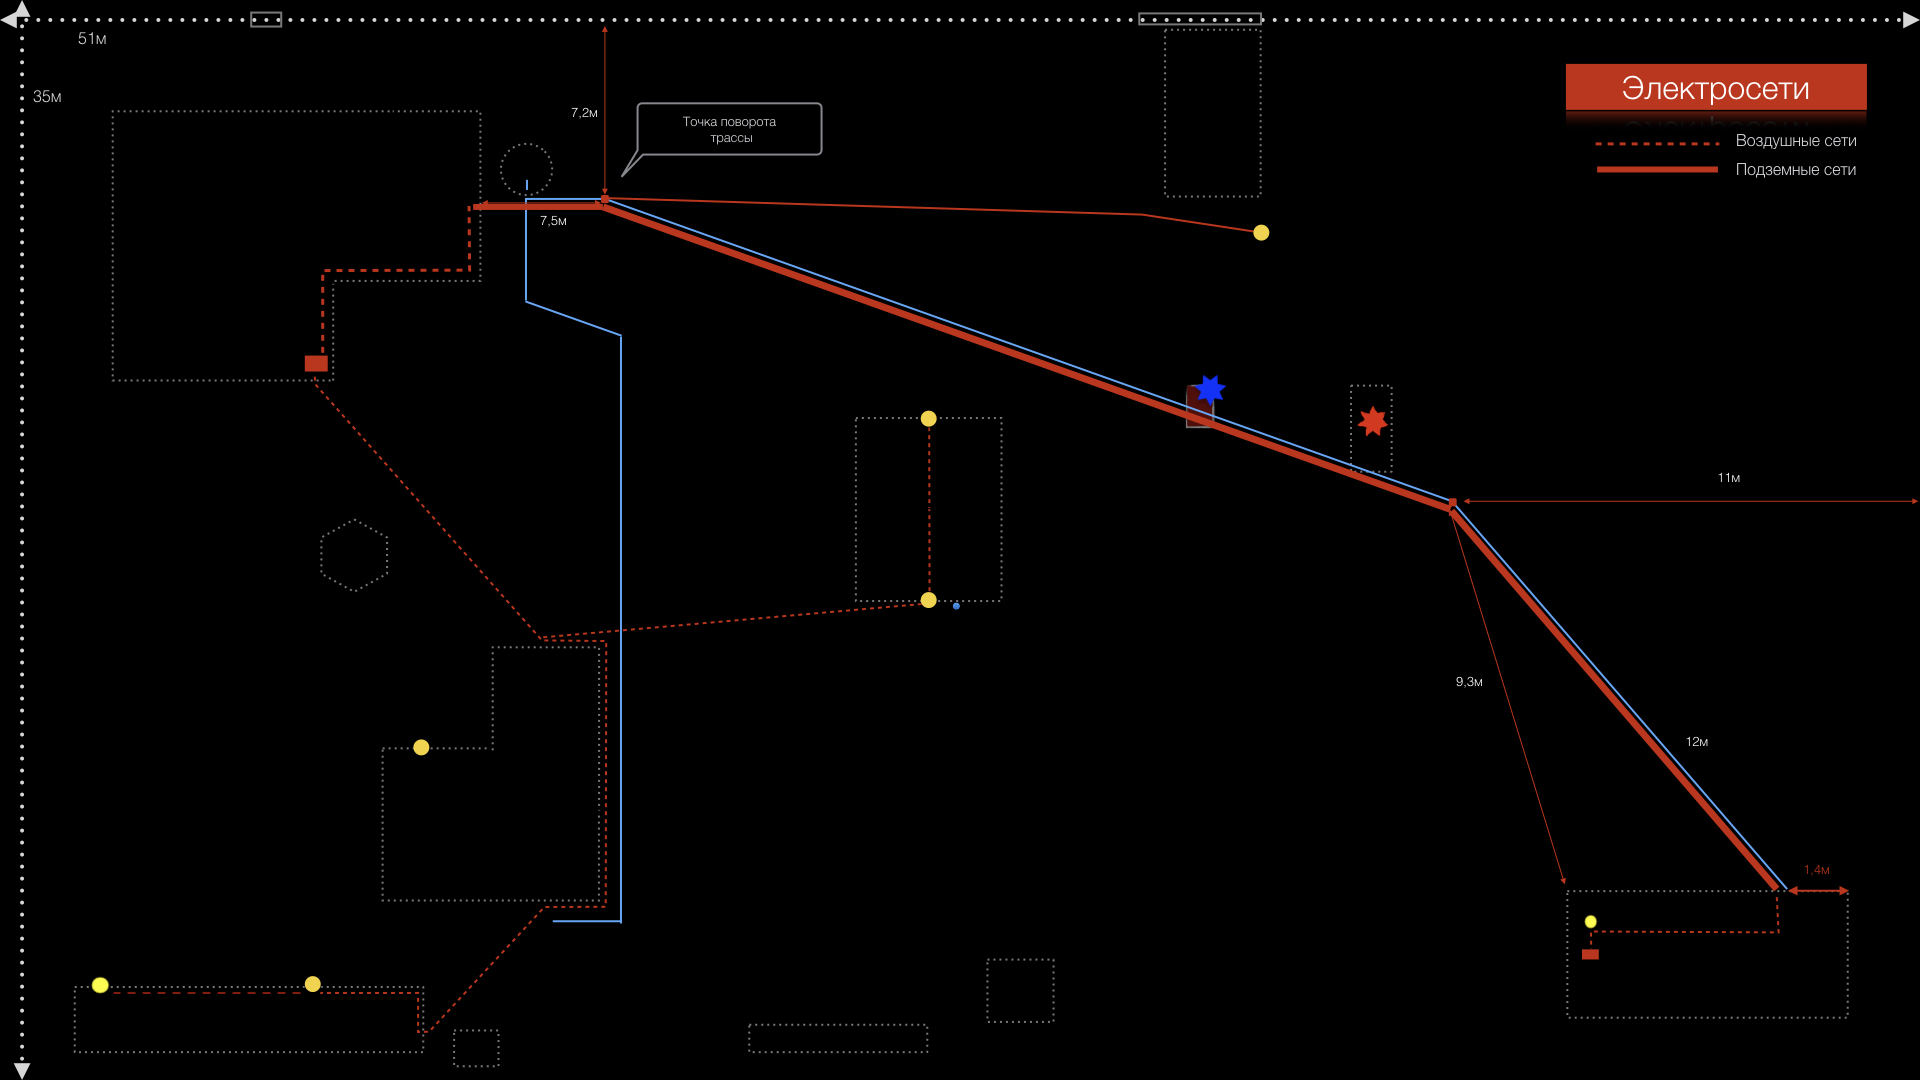
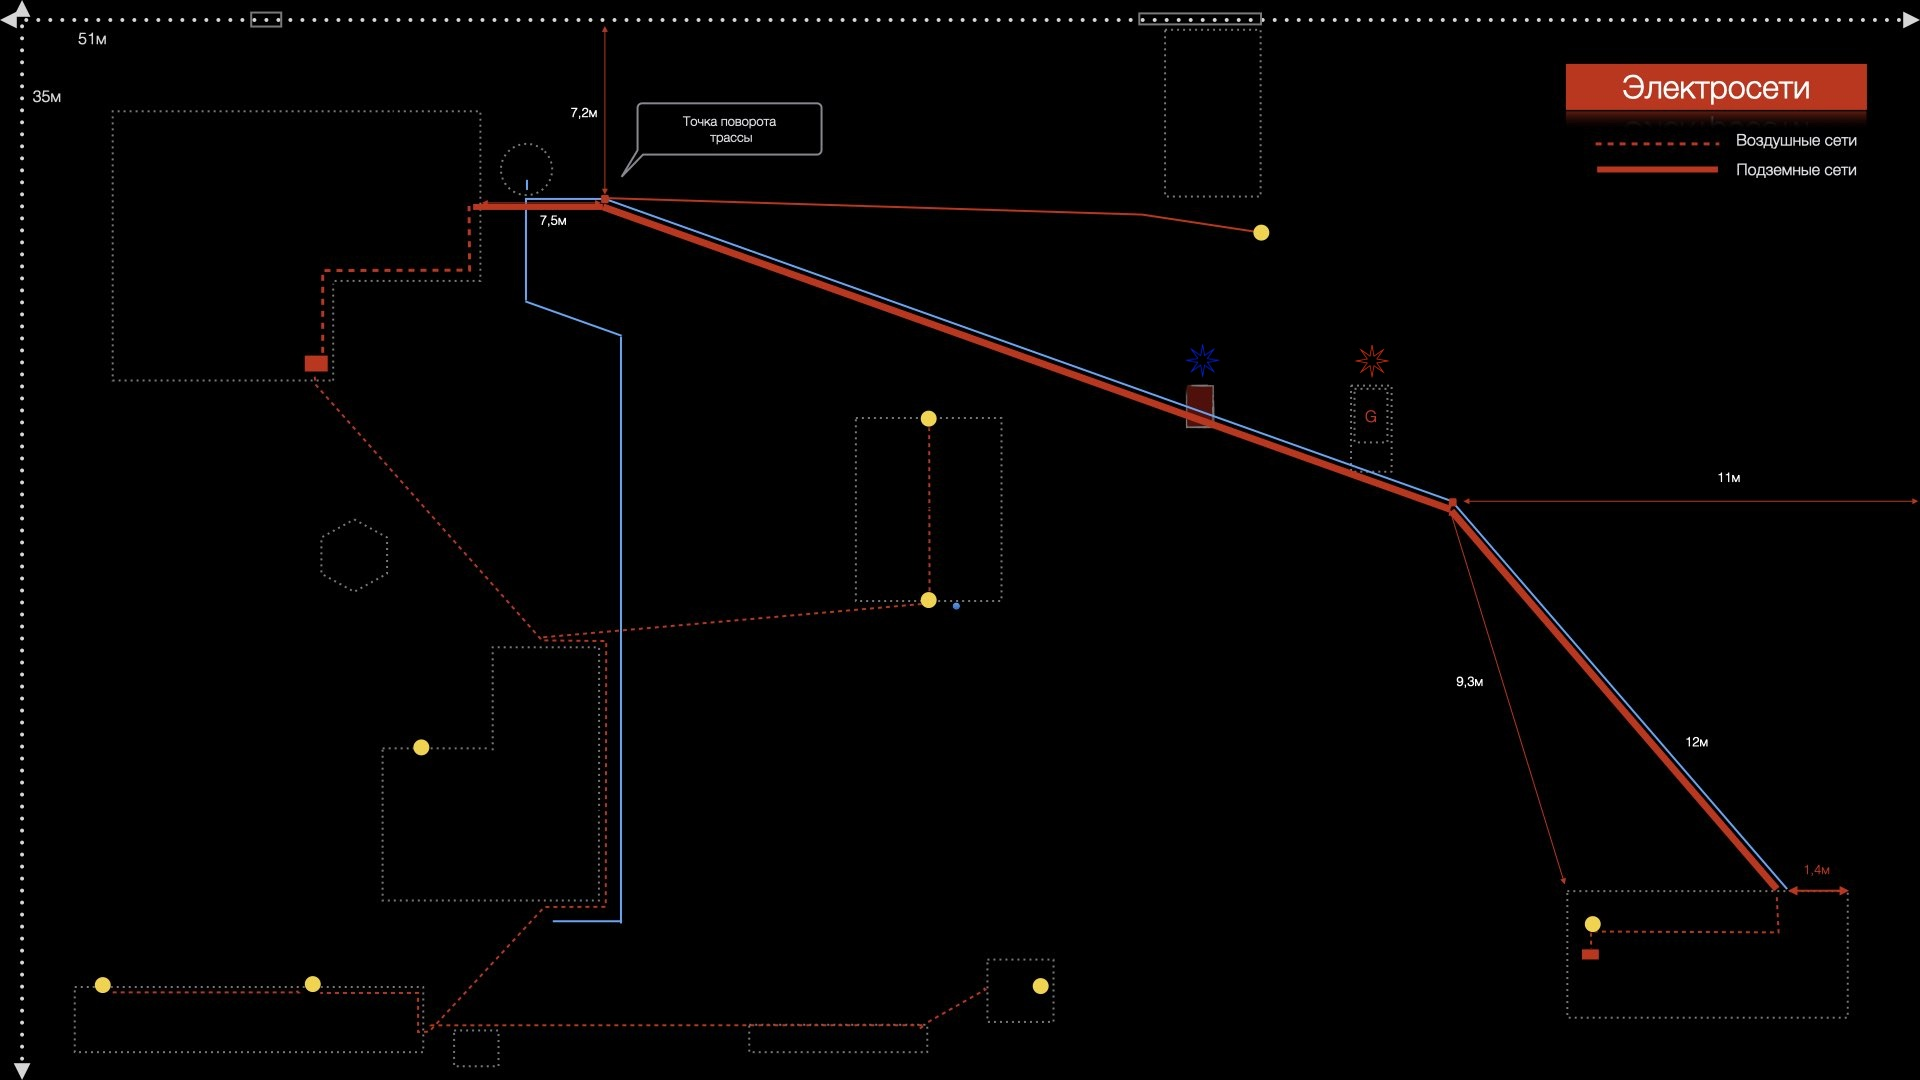
333 ••• 2023

diff --git a/docs/002-energy.md b/docs/002-energy.md
@@ -76,7 +76,7 @@ description: "Общие сведения об электрической сис
 1. Сплошной красной линией обозначается подземная трасса кабеля. 
 2. Прерывистая линией обозначается проводка проложенная по воздуху. 
 3. Голубой линией обозначен водоканал. Подробности по водопроводу можно узнать в [разделе вода](001-water.md).
-4. Красной звездочкой обозначено место установки генератора мощностью 7 киловат.
+4. Красной звездочкой обозначено место установки генератора мощностью ~7.5 киловатт.
 5. Синей звездочкой обозначен колодец для доступа к трубам.
 6. Желтым кружком отмечены уличные светильники.
 
